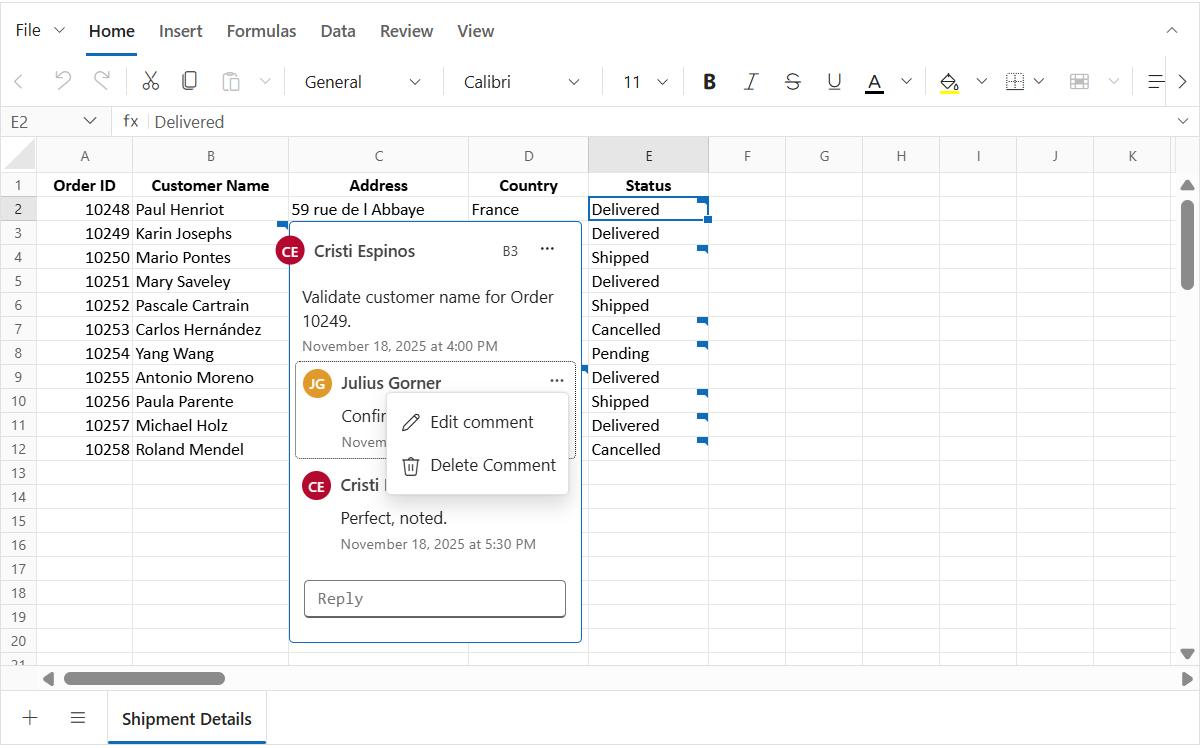
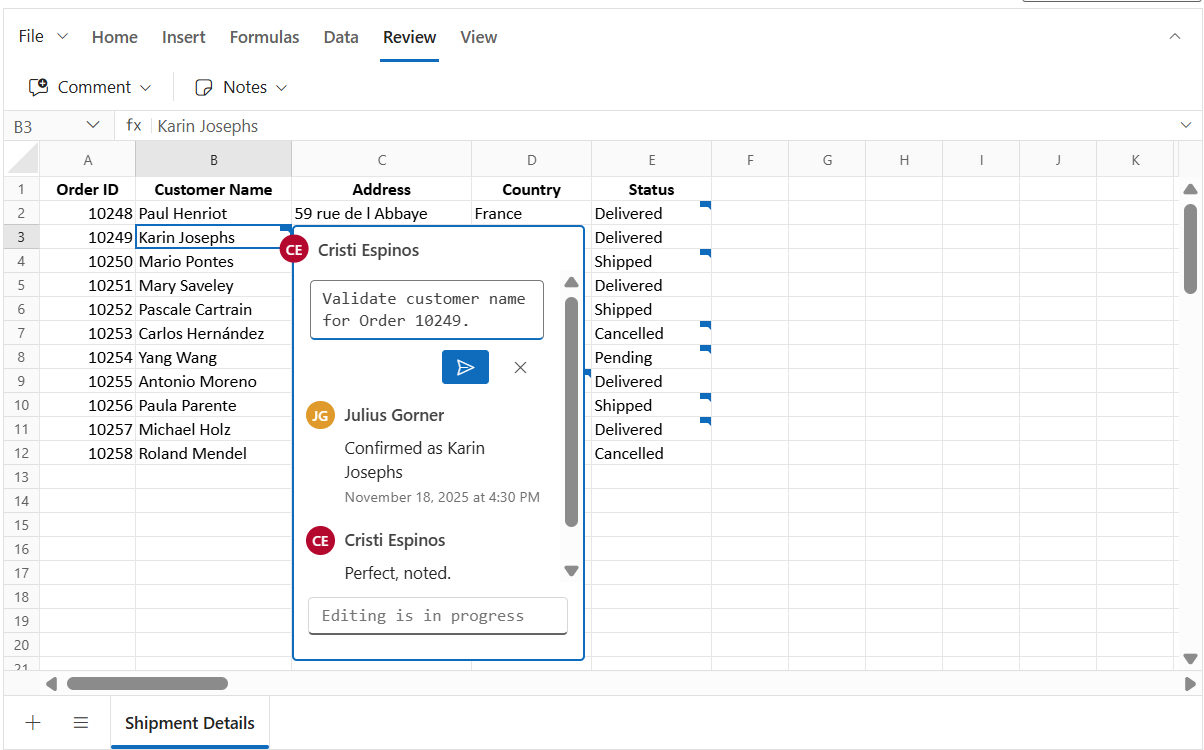
996221: Addressed review comments.

diff --git a/Document-Processing/Excel/Spreadsheet/Javascript-ES6/comment.md b/Document-Processing/Excel/Spreadsheet/Javascript-ES6/comment.md
@@ -11,7 +11,7 @@ documentation: ug
 
 The **Comment** feature allows you to add remarks and **replies** to cells, making it easier to provide feedback or enabling contextual discussions without altering cell values. Comment are distinct from **Notes** and includes advanced capabilities such as replies, resolve/reopen, and an optional **Comments Review Pane** to maintain clear communication and streamline review workflows. When a cell contains a comment, a small comment indicator appears in its corner. Hover over the indicator to preview the comment.
 
-![Spreadsheet showing a comment](./images/spreadsheet_show_comment.png)
+![Spreadsheet showing a comment](./images/spreadsheet_comment.png)
 
 ## Author identity
 
@@ -29,9 +29,7 @@ The Syncfusion Spreadsheet does not automatically track user identity. To tag ne
     spreadsheet.appendTo('#element');
 
 ```
-If the author property is not set, comments and replies will display Guest User as the author by default.
-
-The host application is responsible for setting the current user's display name for each session.
+If the author property is not set, Guest User will be displayed as the author for comment and replies by default.
 
 ## Adding a comment
 
@@ -39,24 +37,10 @@ You can add a **comment** to a cell in the following ways:
 * **Context menu**: Right-click the target cell and click **"New Comment"**.
 * **Ribbon**: Use **Review > Comment > New Comment**.
 * **Keyboard shortcut**: Press **Ctrl + Shift + F2** to open the comment container.
-* **Programmatically**: Use the `updateCell` method to assign a comment to a specific cell.
+* **Programmatically**: 
+    * Use the `updateCell` method with the comment model to add a comment to a specific cell.
+    * Integrate comments during initial loading by binding the comment model to the cell model when initializing the spreadsheet.
 
-**Example for using `updateCell` method with comment:**
-
-```ts
-
-    // Create a comment at the target cell using updateCell
-    spreadsheet.updateCell({
-    comment: {
-        author: 'Chistoper', text: 'Are you completed the report',
-        createdTime: 'January 03, 2026 at 5:00 PM',
-        isResolved: false,
-        replies: [{ author: 'John', text: 'Yes, completed',
-        createdTime: 'January 03, 2026 at 7:00 PM' }]
-    }
-    }, 'Sheet1!D5');
-
-```
 ![Adding a comment in Spreadsheet](./images/spreadsheet_adding_a_comment.gif)
 
 After posting, the comment becomes visible with the comment indicator in the cell and can be previewed on hover.
@@ -65,58 +49,56 @@ After posting, the comment becomes visible with the comment indicator in the cel
 
 You can add one or more replies to an existing comment to provide additional details or answers:
 
-* **Hover over the comment indicator** on the cell to open the comment container, type your reply in the input box, and click **Post**.
-* **Context menu**: Right-click the cell, select **Comment > New Reply**, enter your reply, and click **Post**.
-* **Ribbon**: Use **Review > Comment > New Comment** on a cell that already has a comment. This triggers **reply mode**.
+* **Context menu**: Right-click the cell that already has a comment, select **Comment > New Reply**, enter your reply, and click **Post**.
+* **Ribbon**: Use **Review > Comment > New Comment** on a cell that contains a comment. This triggers **reply mode**.
+* **Comment container**: Open the comment container by hovering over the comment indicator, type your reply in the input box, and click **Post**.
 * **Keyboard shortcut**: Press **Ctrl + Shift + F2** on a cell that contains a comment to open the comment container in reply mode.
 
 After posting, the replies appear under the initial comment in the container.
 
 ## Editing a comment or reply
 
-You can edit the content of a comment or its replies directly within the container
+You can edit the content of a comment or its replies directly within the comment container
 
-* **Initial comment**: Hover over the cell indicator to open the comment container. Click the **⋯ (More thread actions)** menu in the header, select **Edit Comment**, modify the text, and click **Post**.
-* **Reply**: Hover over the specific reply, click the **⋯ (More actions)**, select **Edit Comment**, update the text, and click **Post**.
+* **Edit initial comment**: In the comment container. Click the **⋯ (More thread actions)** menu in the header, select **Edit Comment**, modify the text and click **Post**.
+* **Edit a reply comment**: In the comment container, hover over the specific reply, click the **⋯ (More actions)**, select **Edit Comment**, update the text and click **Post**.
 
 ![Editing a comment reply in Spreadsheet](./images/spreadsheet_edit_comment.png)
 
-## Deleting a reply
-
-You can remove a specific reply from a comment:
-
-* Hover over the reply inside the comment container, click **⋯ (More actions)** and select **Delete Comment**.
-
-![Deleting a comment reply in Spreadsheet](./images/spreadsheet_edit_comment.png)
-
 ## Resolve and Reopen
 
-The **Resolve** option marks a comment as completed when the discussion or issue is addressed. When a thread is resolved, its background color changes to indicate the resolved state, and the reply input box and reply menu actions are hidden. Use **Reopen** to restore the comment if further discussion is needed.
+The **Resolve thread** option marks a comment thread as completed when the discussion or issue is addressed. When a thread is resolved, its background color changes to indicate the resolved state, and the reply input box and reply menu actions are hidden. Use **Reopen** to restore the comment if further discussion is needed.
 
 ### Resolve a comment
-* Hover over the cell indicator to open the comment container and click **⋯ (More thread actions)** menu in the container header and select **Resolve Thread**. 
+* In the comment container, click the **⋯ (More thread actions)** menu in the container header and select **Resolve Thread**. 
 
 ### Reopen a comment
-* Hover over the cell indicator to open the comment container and click **Reopen** button in the header to make the thread active again.
+* In the comment container, click the **Reopen** button in the container header to make the thread active again.
 
 ![Resolve and reopen in Spreadsheet](./images/spreadsheet_resolve_reopen.gif)
 
 You can also use the `isResolved` property in the comment model when initializing or updating comments programmatically.
 
-## Deleting a comment
+## Deleting a comment or reply
+You can delete either a specific reply or an entire comment thread (including all replies) using the following options:
 
-You can delete an entire comment thread
-(including all replies) using any of the following methods:
+### Delete a reply
+In the comment container, hover over the reply and click the **⋯ (More actions)** menu then select **Delete Comment**.
 
+![Deleting a comment reply in Spreadsheet](./images/spreadsheet_delete-reply_comment.png)
+
+### Deleting a comment thread
 * **Context menu**: Right-click the cell that contains the comment and select **Comment > Delete Comment**.
 * **Ribbon**: Use **Review > Comment > Delete Comment** on a cell that contains the comment.
-* **Comment container**: Hover over the cell indicator to open the comment container, click **⋯ (More thread actions)** menu in the container header and select **Delete Thread** for active comment or use the **Delete Thread** button in container header for the resolved comment.
+* **Comment container**: In the comment container, click the **⋯ (More thread actions)** menu in the header and select **Delete Thread** for an active comment or use the **Delete Thread** button in container header for a resolved comment.
 
 Deleting a thread removes the comment and all its replies from the cell.
 
+![Deleting a comment thread in Spreadsheet](./images/spreadsheet_delete_comment.png)
+
 ## Next and Previous Comment
 
-The **Review > Comment > Next Comment and Previous Comment** options in the ribbon allow you to quickly navigate between cells that contain comments:
+The **Review > Comment > Next Comment and Previous Comment** options in the ribbon allows you to quickly navigate between cells that contain comments:
 
 * **Next Comment**: Moves to the next cell with a comment.
 * **Previous Comment**: Moves to the previous cell with a comment.
@@ -125,14 +107,12 @@ Navigation starts within the active sheet. When all comments in the active sheet
 
 ## Show Comments and Comments Review Pane
 
-The **Comments Review Pane** provides a centralized view of all comments in the active sheet and offers filtering, inline actions, and navigation. This pane helps you manage comments efficiently without switching between individual cells.
+The **Comments Review Pane** provides a centralized view of all comments in the active sheet and offers filtering, inline actions, and navigation. This pane helps you to manage comments efficiently without switching between individual cells.
 
 You can show or hide the Comments Review Pane using:
 
 * **Ribbon**: Use **Review > Comment > Show Comments**.
-* **Property**: Set the `showCommentsPane` property when initializing the Spreadsheet.
-
-> The default value for the `showCommentsPane` property is `false`.
+* **Property**: Set the `showCommentsPane` property when initializing the Spreadsheet. The default value for the `showCommentsPane` property is `false`.
 
 ![Show comments in Spreadsheet](./images/spreadsheet_show_comments.gif)
 
@@ -149,11 +129,11 @@ The Comments Review Pane allows you to:
   * **Delete** – Remove a reply or an entire thread.
   * **Resolve/Reopen** – Change the status of a comment.
 
-When the Review Pane is open, all actions performed in the pane or in the cell’s comment container are synchronized:
+When the Review Pane is open, all actions performed in the comments review pane or in the cell’s comment container are synchronized:
 
-* Selecting a comment in the Review Pane highlights the corresponding cell in the sheet.
-* Selecting a cell with a comment focuses the related comment in the Comment Review Pane.
-* Actions such as **Reply**, **Edit**, **Delete**, and **Resolve/Reopen** update both the pane comment container and the cell comment container instantly, ensuring consistency across the UI.
+* Selecting a comment in the Comments Review Pane highlights the corresponding cell in the sheet.
+* Selecting a cell with a comment focuses the respective comment thread in the Comments Review Pane.
+* Actions such as **Reply**, **Edit**, **Delete**, and **Resolve/Reopen** update both the pane comment thread and the cell comment container instantly, ensuring consistency across the UI.
 
 ## Saving a Workbook with Comments
 
@@ -166,21 +146,20 @@ You can save spreadsheet data along with **comments** using **File > Save As > M
 The **.xls** format is based on the older Excel binary structure (BIFF8), which does not support modern features like **threaded comments**.
 Threaded comments introduced in newer Excel versions require the **Open XML** structure used by `.xlsx`.  
 
->To retain threaded comments, always save the workbook in **.xlsx** format.
+> To retain threaded comments, always save the workbook in **.xlsx** format.
 
 ## Integrating comments during initial loading using cell data binding
 
-You can bind **comments** to cells at initial load by providing a `comment` object in the cell model. Each cell supports **per comment thread**, which can include:
+You can bind **comment thread** to cells at initial load by providing a `comment` object in the cell model. Each cell supports **per comment thread**, which can include:
 - **Initial comment fields**: `author`, `text`, `createdTime`, `isResolved`
-- **Replies**: A **flat array** of `{ author, text, createdTime }` objects (no nested replies-of-replies)
+- **Replies**: A collection of replies. Each reply is an object containing its `author`, `text`, and `createdTime` (no nested replies-of-replies).
 
 When the workbook renders, cells that include a `comment`:
 - Show the **comment indicator** in the cell corner.
 - Open the **comment container** on hover.
 - Appear in the **Comments Review Pane** if it is shown.
 
-
-In the below example, comments are added to specific cells via cell data binding. The review pane is shown initially, and comments are added using `updateCell` method in the `created` event.
+In the below sample, comments are added to a specific cell using cell data binding. The review pane is shown initially by enabling the `showCommentsPane` property, and comments are added using `updateCell` method in the `created` event.
 
 {% tabs %}
 {% highlight ts tabtitle="index.ts" %}
@@ -196,13 +175,17 @@ In the below example, comments are added to specific cells via cell data binding
 ### Notes
 
 * **One thread per cell**: Attach a single `comment` object per cell. New remarks should be added as replies inside the existing thread.
-* **Resolved**: Use `isResolved: true` to render a thread in resolved state.
-* **Indicator & preview**: Cells with comments show an indicator; hover opens the comment container for preview and inline actions.
-* **Comments Review pane**: Set `showCommentsPane: true` to manage threads centrally (add, filter, navigate, reply, edit, delete, resolve/reopen).
+* **Comments and Notes cannot coexist**: When a cell contains comment, notes cannot be added. Similarly, if a cell already has a notes, comment cannot be added.
+* **New comment**: When the Comments Review Pane is enabled, adding a new comment renders the drafted comment container directly in the Comments Review Pane.
+* **Comments in Print**: Comments are not included in print output.
+* **Author Identity**: The author name for each comment and reply is static once set. When exporting, the author information is preserved for all comments, even if multiple authors exist in the workbook.
 
 ## Limitations
 
-* **Un-posted comment is not stored**: If you type in the comment container and close it without clicking **Post**, the entered text is not saved. Only posted content is persisted in the comment model.
-* **Export support**: Threaded comments are not exported to **.xls**, **.csv**, and **.pdf**.
-* **Single thread per cell**: Only one comment thread is supported per cell; replies are a flat list (no nested reply-to-reply).
-* **Non-collaborative**: Real-time multi-user sync is not supported; the host app must set the author identity for the session.
+* **Un-posted comment is not stored**: If you type in the comment container and close it without clicking **Post**, the entered text is not saved and does not retain in the input box when you reopen the container. Only posted content is persisted in the comment model.
+* **Non-collaborative**: Real-time multi-user synchronization is not supported. However, when exporting and re-importing the workbook, the author information for each comment and reply is preserved.
+
+## See Also
+
+* [Notes](./notes)
+* [Hyperlink](./link)
